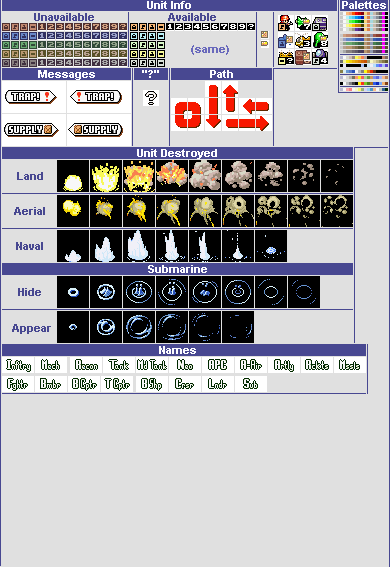
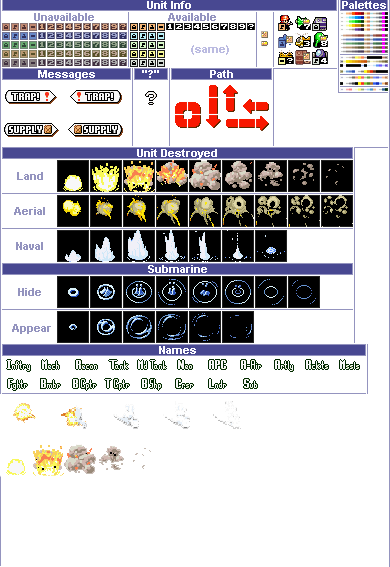
Add battle transition

diff --git a/leapfrog/js-assignments/final-project/js/Unit.js b/leapfrog/js-assignments/final-project/js/Unit.js
@@ -20,7 +20,8 @@ const attackMatrix = {
 let frames = 0;
 let animationFrame = 0;
 let fadeId = 0;
-
+let battleID = 0;
+let counterID = 0;
 class Unit{
   constructor(tileX, tileY, color){
     this.tileX = tileX;
@@ -44,7 +45,10 @@ class Unit{
     this.type = 'generic';
     this.drawState = true;
     this.captureCounter = 0;
+    this.battleCounter = 0;
+    this.counterAttackCounter = 0;
     this.captureAnimFrame = 0;
+    this.battleAnimFrame = 0;
     this.actionState = {
       current: 1,
       idle: 1,
@@ -58,6 +62,20 @@ class Unit{
       inactive: 9,
       currentState: 'idle'
     };
+    this.attackPhase = false;
+    this.counterPhase = false;
+    this.attackSprites = {
+      0: {x: 0, y: 394},
+      1: {x: 48, y: 394},
+      2: {x: 96, y: 394},
+      3: {x: 144, y: 394},
+    };
+    this.damageSprites = {
+      0: {x: 0, y: 444},
+      1: {x: 32, y: 444},
+      2: {x: 64, y: 444},
+      3: {x: 96, y: 444}
+    }
   }
 
   isArrayinArray(arr, item){
@@ -279,13 +297,48 @@ class Unit{
     let modifiedDamage = this.damageMatrix[unitToAttack.type] * this.hp/10 < 1? 1 : this.damageMatrix[unitToAttack.type] * this.hp/10;
     modifiedDamage = modifiedDamage / 100 * unitToAttack.maxHP;
     if(modifiedDamage > unitToAttack.hp) {currentPlayer.funds += 400};
-    unitToAttack.takeDamage(modifiedDamage);
-    unitToAttack.counterAttack(this);
+    attackingUnit = this;
+    defendingUnit = unitToAttack;
+    battleID = setInterval(this.battleAnimate, 10, modifiedDamage, unitToAttack);
     this.drawAttackGrid = false;
     this.attackGrid = [];
     this.movementPath = [];
     this.actionState.current = this.actionState.inactive;
     this.actionState.currentState = 'inactive';
+  }
+
+  battleAnimate = (modifiedDamage, unitToAttack) => {
+    this.battleCounter += 1;
+    this.battlePhase = true;
+    if(this.battleCounter % 16 == 0) this.battleAnimFrame++;
+    if(this.battleAnimFrame > 3) this.battleAnimFrame = 0;
+    if(this.battleCounter >= 184){
+      clearInterval(battleID);
+      attackingUnit = undefined;
+      defendingUnit = undefined;
+      this.battleCounter = 0;
+      this.battleAnimFrame = 0;
+      this.battlePhase = false;
+      unitToAttack.counterAttack(this);
+      unitToAttack.takeDamage(modifiedDamage);
+    }
+  }
+
+  counterAttackAnimate = (modifiedDamage, unitToAttack) => {
+    this.battleCounter += 1;
+    this.counterPhase = true;
+    if(this.battleCounter % 16 == 0) this.battleAnimFrame++;
+    if(this.battleAnimFrame > 3) this.battleAnimFrame = 0;
+    if(this.battleCounter >= 184){
+      clearInterval(counterID);
+      attackingUnit = undefined;
+      defendingUnit = undefined;
+      this.battleCounter = 0;
+      this.battleAnimFrame = 0;
+      this.counterPhase = false;
+      unitToAttack.takeDamage(modifiedDamage);
+
+    }
   }
 
   counterAttack = (unitToAttack) => {
@@ -298,8 +351,10 @@ class Unit{
     }
     let modifiedDamage = this.damageMatrix[unitToAttack.type] * this.hp/10 < 1? 1 : this.damageMatrix[unitToAttack.type] * this.hp/10;
     modifiedDamage = modifiedDamage / 100 * unitToAttack.maxHP;
+    attackingUnit = this;
+    defendingUnit = unitToAttack;
+    counterID = setInterval(this.counterAttackAnimate, 10, modifiedDamage, unitToAttack);
     if(modifiedDamage > unitToAttack.hp) {currentPlayer.funds += 400};
-    unitToAttack.takeDamage(modifiedDamage);
   }
 
   takeDamage = (damage) => {

diff --git a/leapfrog/js-assignments/final-project/js/MainLoop.js b/leapfrog/js-assignments/final-project/js/MainLoop.js
@@ -273,6 +273,34 @@ class MainGameLoop{
         this.context.drawImage(captAnimSheet, capturingUnit.spritePos[capturingUnit.color]['capture'][capturingUnit.captureAnimFrame].x, capturingUnit.spritePos[capturingUnit.color]['capture'][capturingUnit.captureAnimFrame].y, 16,24,290,220,100,130);
       }
     }
+    if(attackingUnit !== undefined && defendingUnit !== undefined){
+      this.context.beginPath();
+      this.context.fillStyle = 'rgba(0,0,0,0.5)';
+      this.context.rect(0,0,this.canvas.width, this.canvas.height);
+      this.context.fill();
+      this.context.closePath();
+      let attackingUnitsXPos = 100;
+      let counterAttackingUnitsXPos = 600;
+      if(attackingUnit.battlePhase){
+        attackingUnitsXPos = 100;
+        counterAttackingUnitsXPos = 600;
+      }else if(attackingUnit.counterPhase){
+        attackingUnitsXPos = 600;
+        counterAttackingUnitsXPos = 100;
+      }
+      for(let i = 0; i < attackingUnit.hp / 2; i++){
+        this.context.drawImage(mainSpriteSheet, attackingUnit.spritePos[attackingUnit.color]['idle'][animationFrame].x, attackingUnit.spritePos[attackingUnit.color]['idle'][animationFrame].y, 16, 16, attackingUnitsXPos + i * 25, 300 + i * 50, 128, 128);
+      }
+      for(let i = 0; i < defendingUnit.hp / 2; i++){
+        this.context.drawImage(mainSpriteSheet, defendingUnit.spritePos[defendingUnit.color]['idle'][animationFrame].x, defendingUnit.spritePos[defendingUnit.color]['idle'][animationFrame].y, 16, 16, counterAttackingUnitsXPos + i * 25, 300 + i * 50, 128, 128);
+      }
+      if(attackingUnit.battleCounter > 48 && attackingUnit.battleCounter < 96){
+        this.context.drawImage(mainHUDSheet, attackingUnit.attackSprites[attackingUnit.battleAnimFrame].x, attackingUnit.attackSprites[attackingUnit.battleAnimFrame].y, 48, 48, attackingUnitsXPos, 300, 192, 192);
+      }
+      if(attackingUnit.battleCounter > 0 && attackingUnit.battleCounter > 136){
+        this.context.drawImage(mainHUDSheet, defendingUnit.damageSprites[attackingUnit.battleAnimFrame].x, defendingUnit.damageSprites[attackingUnit.battleAnimFrame].y, 32, 32, counterAttackingUnitsXPos, 300, 192, 192);
+      }
+    }
   }
 
   incrementFrames(){
@@ -342,6 +370,7 @@ function initializePlayers(){
   player1.addUnit(12,12,'APC');
   player1.addUnit(14, 13, 'Battleship');
   player2.addUnit(10,11,'Rocket Launcher');
+  player2.addUnit(10,20,'Infantry');
   playerList.push(player1);
   playerList.push(player2);
   playerList.push(player3);
